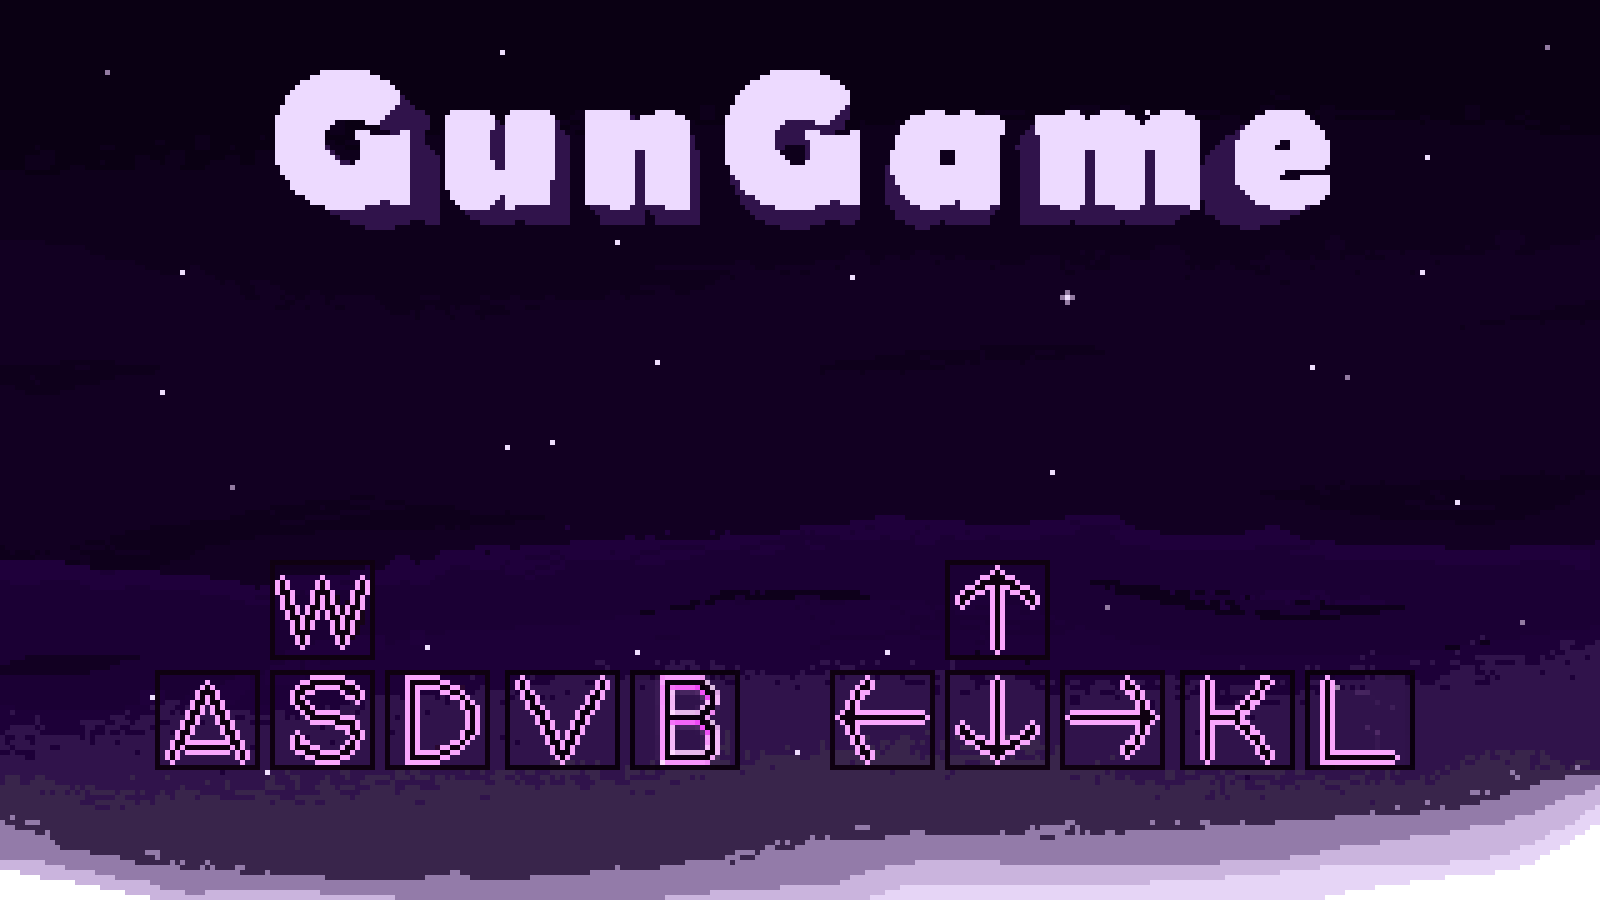
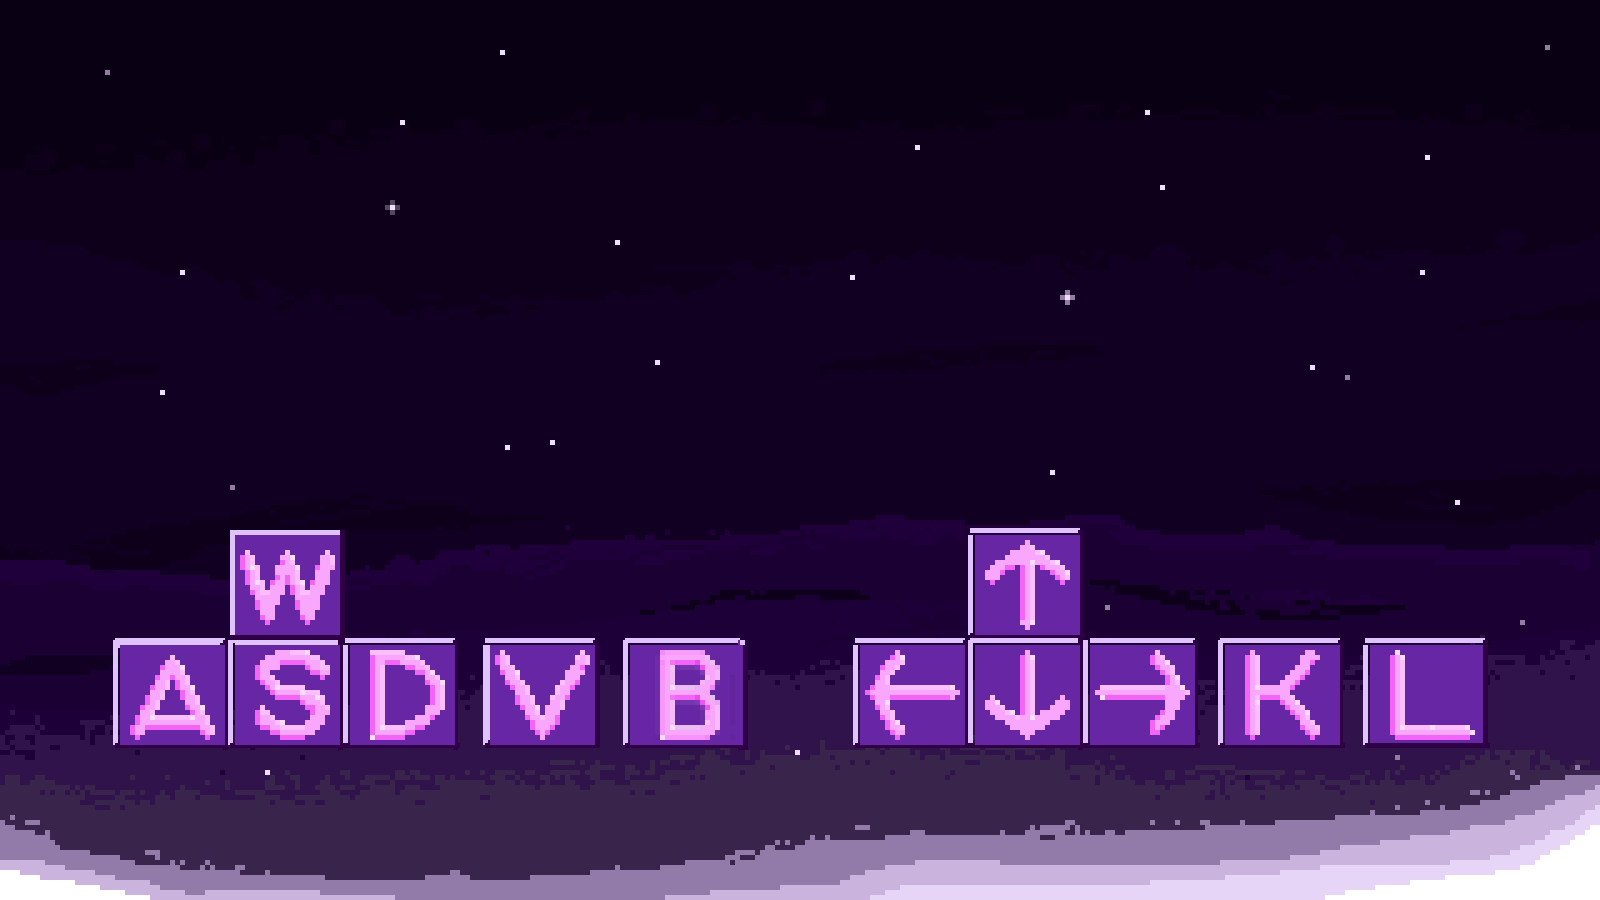
add init and intro

Changed region(s): [[0.1562, 0.0622, 0.8438, 0.28], [0.5, 0.56, 0.9375, 0.8711], [0.0625, 0.5911, 0.4688, 0.8711]]

diff --git a/final-project/final project GunGame.py b/final-project/final project GunGame.py
@@ -61,9 +61,14 @@ def draw_init():
     intro_img = pygame.image.load('./oop-python-nycu/final-project/intro.png')  
     player1_img = pygame.image.load('./oop-python-nycu/final-project/player_1.png') # 載入玩家圖片
     player2_img = pygame.image.load('./oop-python-nycu/final-project/player_2.png') # 載入玩家圖片
-    player1_img = pygame.transform.scale(player1_img, (160, 220))
-    player2_img = pygame.transform.scale(player2_img, (160, 220))
-    
+    player1_img = pygame.transform.scale(player1_img, (120, 165))
+    player2_img = pygame.transform.scale(player2_img, (120, 165))
+    Player1 = Player(0, 0, player1_img, 1)
+    Player2 = Player(WINDOW_WIDTH, 0, player2_img, 2)
+    player1_img = pygame.transform.scale(player1_img, (192, 264))
+    player2_img = pygame.transform.scale(player2_img, (192, 264))
+    all_players = pygame.sprite.Group()
+    all_players.add(Player1, Player2)
     # 獲取圖片的原始大小
     img_width, img_height = initial_screen.get_size()
     
@@ -85,22 +90,45 @@ def draw_init():
     pygame.display.set_caption("GunGame")
     state = 0  # 0: 顯示標題, 1: 顯示說明, 2: 開始遊戲
     counttime = 0
+    dir1 = "right"
+    dir2 = "left"
     while state < 2:
         screen.fill((0, 0, 0))  # 清除屏幕
         screen.blit(initial_screen, (pos_x, pos_y))  # 確保背景圖片始終顯示
         counttime += 1
+        speed_x = 10
+        
         if state == 0:
             if counttime <= 50:
                 draw_text(screen, "<Tap Any Bottom To Start>", 50, WINDOW_WIDTH / 2, WINDOW_HEIGHT / 2 + 200)
+            Player1.gravity()
+            Player2.gravity()
+            if Player1.rect.right > WINDOW_WIDTH:
+                dir1 = "left"
+            if Player1.rect.left < 0:
+                dir1 = "right"
+            if Player2.rect.right > WINDOW_WIDTH:
+                dir2 = "left"
+            if Player2.rect.left < 0:
+                dir2 = "right"
+            if Player1.rect.bottom > WINDOW_HEIGHT:
+                Player1.speed_y = random.randint(-27, -10)
+            if Player2.rect.bottom > WINDOW_HEIGHT:
+                Player2.speed_y = random.randint(-27, -10)
+            Player1.move_x(dir1)
+            Player2.move_x(dir2)
+            all_players.draw(screen)
 
         elif state == 1:
             screen.blit(intro_img, (pos_x, pos_y))
+            draw_text(screen, "move              fire     bomb", 50, WINDOW_WIDTH / 2-250, WINDOW_HEIGHT / 2 + 250)
+            draw_text(screen, "move              fire     bomb", 50, WINDOW_WIDTH / 2+345, WINDOW_HEIGHT / 2 + 250)
             if counttime <= 50:
-                screen.blit(player1_img, (WINDOW_WIDTH / 2-250, WINDOW_HEIGHT / 2 + 20-100))
-                screen.blit(player2_img, (WINDOW_WIDTH / 2+300, WINDOW_HEIGHT / 2 + 20-100))
+                screen.blit(player1_img, (WINDOW_WIDTH / 2-300, WINDOW_HEIGHT / 2 + 20-220))
+                screen.blit(player2_img, (WINDOW_WIDTH / 2+300, WINDOW_HEIGHT / 2 + 20-220))
             else:
-                screen.blit(player1_img, (WINDOW_WIDTH / 2-250, WINDOW_HEIGHT / 2-100))
-                screen.blit(player2_img, (WINDOW_WIDTH / 2+300, WINDOW_HEIGHT / 2-100))
+                screen.blit(player1_img, (WINDOW_WIDTH / 2-300, WINDOW_HEIGHT / 2-220))
+                screen.blit(player2_img, (WINDOW_WIDTH / 2+300, WINDOW_HEIGHT / 2-220))
             counttime += 1
         if counttime > 100:
             counttime = 0
@@ -408,9 +436,9 @@ class Game():
 
     def draw_object(self, player1, player2):
         for i in range(player1.live):
-            self.screen.blit(self.heart_img, (10 + 45 * i, 10))
+            self.screen.blit(self.heart_img, (7 + 45 * i, 10))
         for i in range(player2.live):
-            self.screen.blit(self.heart_img, (WINDOW_WIDTH - 45 * (i + 1), 10))
+            self.screen.blit(self.heart_img, (WINDOW_WIDTH - 45 * (i + 1)-3, 10))
         for i in range(player1.bomb_num):
             self.screen.blit(pygame.transform.scale(self.bomb_img, [35,35]), (10 + 45 * i, 50))
         for i in range(player2.bomb_num):
@@ -425,6 +453,12 @@ class Physics(object):
             self.speed_x = 0
             self.speed_y = 0
             self.on_ground = False
+
+        def gravity(self):
+            self.speed_y += GRAVITY
+            self.rect.x += self.speed_x
+            self.rect.y += self.speed_y
+
         
         def update(self):
             # 應用重力
@@ -718,8 +752,6 @@ class Bullet(pygame.sprite.Sprite):
 
     def leave_check(self):
         return self.leave
-    
-    
 
     def update(self):
         elapsed_time = time.time() - self.creation_time
@@ -729,8 +761,6 @@ class Bullet(pygame.sprite.Sprite):
         if self.strgun == "shotgun":
             if self.count <= 0:
                 self.kill()
-
-
         if self.speed == 0:
             return True
         elif self.speed > 0:
@@ -746,8 +776,6 @@ class Bullet(pygame.sprite.Sprite):
     def out(self):
         return self.out_check
     
-    
-
 # 建立炸彈類別
 class Bomb(pygame.sprite.Sprite, Physics):
     def __init__(self, x, y, img, direction):
